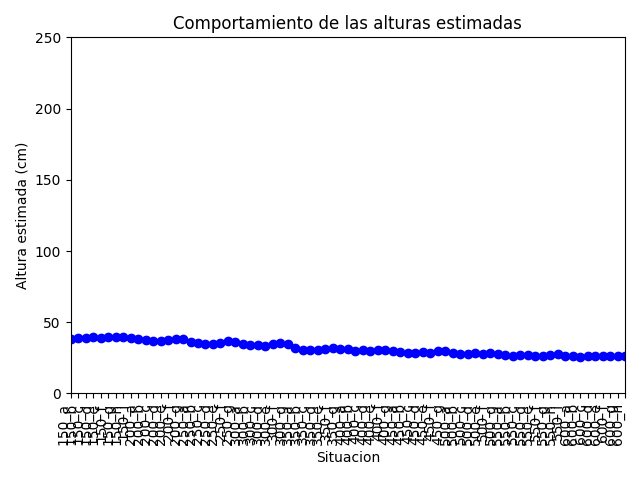
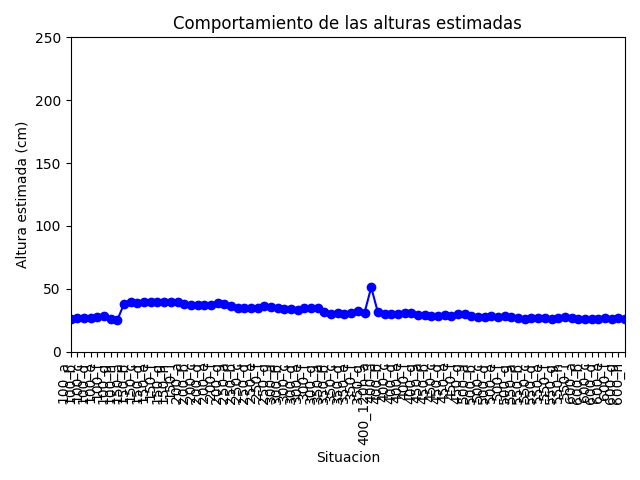
height stimation and graphs creation

diff --git a/datasets/data_analisis.py b/datasets/data_analisis.py
@@ -17,6 +17,8 @@ df_alturas_train = pd.read_csv(f"data/{file_name}_heights_train.csv")
 df_alturas_train = df_alturas_train.sort_values(["situation"]).reset_index(drop=True)
 df_alturas_val = pd.read_csv(f"data/{file_name}_heights_val.csv")
 df_alturas_val = df_alturas_val.sort_values(["situation"]).reset_index(drop=True)
+df_alturas_corr = pd.read_csv(f"data/{file_name}_heights_corrected.csv")
+df_alturas_corr = df_alturas_corr.sort_values(["situation"]).reset_index(drop=True)
 # df = pd.read_csv(f"steven/{file_name}.csv")
 # df = pd.read_csv("z_estimation_old_keypoints_no_astype_no_norm.csv")
 
@@ -169,8 +171,8 @@ df_gt_processed = df_gt_processed.sort_values(["z_true"])
 
 # df_variant["z_corrected"] = df_variant["z_true"].apply(apply_linear_correction)
 
-lr_model = apply_linear_regresion(df_processed, "z_estimation_1", "z_true", f'{folder}/z_lr')
-# lr_model = joblib.load("models/z_estimation_matlab_1_keypoint_ln_model_LASER.pkl")
+# lr_model = apply_linear_regresion(df_processed, "z_estimation_1", "z_true", f'{folder}/z_lr')
+lr_model = joblib.load("models/z_estimation_matlab_1_keypoint_ln_model_LASER.pkl")
 
 df_gt_processed["z_corrected"] =  lr_model.predict(df_gt_processed[["z_estimation_1"]].values.reshape(-1,1))
 df_gt_processed["error"] = (abs(df_gt_processed["z_corrected"] - df_gt_processed["z_true"])*100)/df_gt_processed["z_true"]
@@ -181,8 +183,8 @@ print('-------------------------------------------------------------------------
 df_alturas_train["h_true"] = 173
 df_alturas_val["h_true"] = 173
 h_model = apply_linear_regresion(df_alturas_train, "h_estimation_1", "h_true", f'{folder}/height_lr')
-df_alturas_val["h_corrected"] = h_model.predict(df_alturas_val[["h_estimation_1"]].values.reshape(-1,1))
-df_alturas_val["error"] = (abs(df_alturas_val["h_corrected"] - df_alturas_val["h_true"])*100)/df_alturas_val["h_true"]
+# df_alturas_val["h_corrected"] = lr_model.predict(df_alturas_val[["h_estimation_1"]].values.reshape(-1,1))
+# df_alturas_val["error"] = (abs(df_alturas_val["h_corrected"] - df_alturas_val["h_true"])*100)/df_alturas_val["h_true"]
 print(df_alturas_val)
 # VALIDATION
 df_variant = df_processed[df_processed["situation"].str.contains("variant")]
@@ -208,6 +210,26 @@ def save_plot(df, original, path):
     plt.savefig(path)
     # plt.savefig(f"./steven/graficas/original_{file_name}.png")
 
+def save_plot_height(df, original, path):
+    plt.figure(figsize=(12, 6))
+    plt.plot(df['situation'], df['h_true'], label='h True',)
+    if (original):
+        plt.plot(df['situation'], df['h_estimation_1'], label = 'H Estimation 1')
+    else:
+        plt.plot(df['situation'], df['h_corrected'], label = 'h Corrected')
+ 
+
+    plt.xlabel('Situation')
+    plt.ylabel('Depth')
+    plt.xticks(rotation=90)
+    plt.legend()
+    plt.grid(True)
+
+    plt.tight_layout()
+    plt.savefig(path)
+    # plt.savefig(f"./steven/graficas/original_{file_name}.png")
+
+
 # ###########################################ORIGINAL#####################################
 
 # save_plot(df_front, True, f"./graficas/{folder}/original_{file_name}.png")
@@ -231,5 +253,24 @@ def save_plot(df, original, path):
 # ###########################################CORRECTED#####################################
 
 # save_plot(df_gt_processed, False, f"./graficas/{folder}/ground_truth/corrected_{file_name}.png")
+print('depth')
+print(df_processed)
+print('-----------------------------------------------------------------------------')
+print(df_gt_processed)
+print('-----------------------------------------------------------------------------')
+print('height')
+print(df_alturas_train)
+print('-----------------------------------------------------------------------------')
+print(df_alturas_val)
+
+df_alturas_corr['h_true'] = 173
+df_alturas_corr["error"] = (abs(df_alturas_corr["h_corrected"] - df_alturas_corr["h_true"])*100)/df_alturas_corr["h_true"]
+
+print(df_alturas_corr.shape)
+
+# save_plot_height(df_alturas_train, True, f"./graficas/{folder}/ground_truth/original_train_{file_name}.png")
+# save_plot_height(df_alturas_val, True, f"./graficas/{folder}/ground_truth/original_train_{file_name}.png")
+# save_plot_height(df_alturas_val, False, f"./graficas/{folder}/ground_truth/corrected_train_{file_name}.png")
+save_plot_height(df_alturas_corr, False, f"./graficas/{folder}/ground_truth/corrected_val_{file_name}.png")
 
 graficar_alturas(df_alturas_train, 0, 250)

diff --git a/dense_point_cloud/main.py b/dense_point_cloud/main.py
@@ -15,7 +15,7 @@ configs = {
         'RIGHT_VIDEO': '../videos/rectified/matlab_1/16_35_42_26_02_2024_VID_RIGHT.avi',
         'MATRIX_Q': '../config_files/matlab_1/newStereoMap.xml',
         'disparity_to_depth_map': 'disparity2depth_matrix',
-        'model': "../datasets/models/matlab_1/height_lr.pkl",
+        'model': "../datasets/models/matlab_1/z_lr.pkl",
         'numDisparities': 68,
         'blockSize': 7, 
         'minDisparity': 5,
@@ -406,7 +406,7 @@ model = joblib.load(model_path)
 
 
 ################################################################################################################################
-pairs = read_image_pairs_by_distance('../images/calibration_results/matlab_1/chessboard')
+pairs = read_image_pairs_by_distance('../images/calibration_results/matlab_1/validation')
 alphabet = string.ascii_lowercase
 alturas = []
 
@@ -437,7 +437,7 @@ for situation, variations in pairs.items():
             dense_point_cloud = dense_point_cloud.astype(np.float64)
 
             # Corrección de nube densa 
-            #dense_point_cloud = pcGen.point_cloud_correction(dense_point_cloud, model)
+            dense_point_cloud = pcGen.point_cloud_correction(dense_point_cloud, model)
 
             # base_filename = f"./point_clouds/{camera_type}/{mask_type}_disparity/{camera_type}_{situation}_{letter}_corrected"
             base_filename = f"./point_clouds/{camera_type}/{mask_type}_disparity/{camera_type}_{situation}_{letter}"
@@ -457,7 +457,7 @@ for situation, variations in pairs.items():
             counter = 0
             heights = []
             for pc, cl in zip(point_cloud_list, colors_list):
-                #pc = pcGen.point_cloud_correction(pc, model)
+                pc = pcGen.point_cloud_correction(pc, model)
                 #pcGen.process_point_cloud(point_cloud, eps, min_samples, base_filename) #This is DBSCAN process
                 # colors = original_cloud_colors = np.ones_like(point_cloud) * [255, 0, 0]
                 centroids = pcGen.process_point_cloud(pc, eps, min_samples, f"{base_filename}_person{counter}")
@@ -506,7 +506,7 @@ for situation, variations in pairs.items():
 
 if len(data) > 0:
     # Guardar dataset como CSV
-    dataset_path = f"../datasets/data/z_estimation_{camera_type}_{mask_type}_heights_train.csv"
+    dataset_path = f"../datasets/data/z_estimation_{camera_type}_{mask_type}_heights_corrected.csv"
 
     if not os.path.exists(os.path.dirname(dataset_path)):
         os.makedirs(os.path.dirname(dataset_path))
